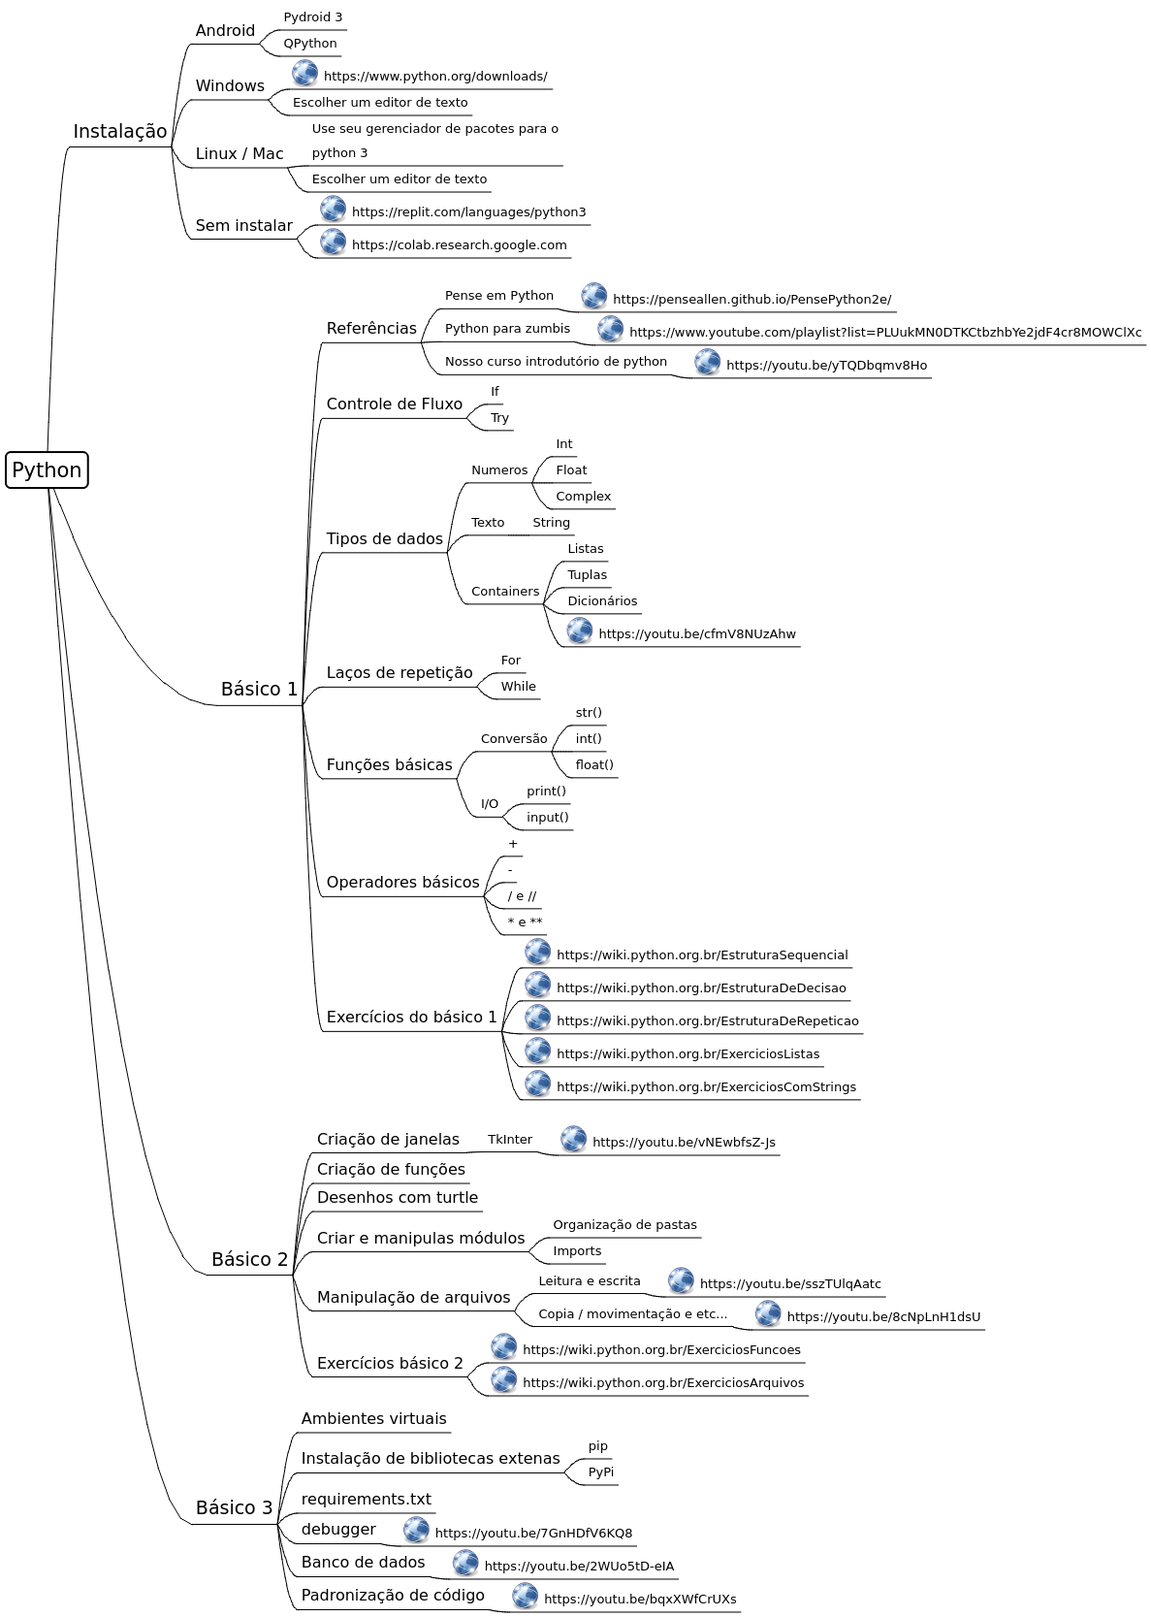
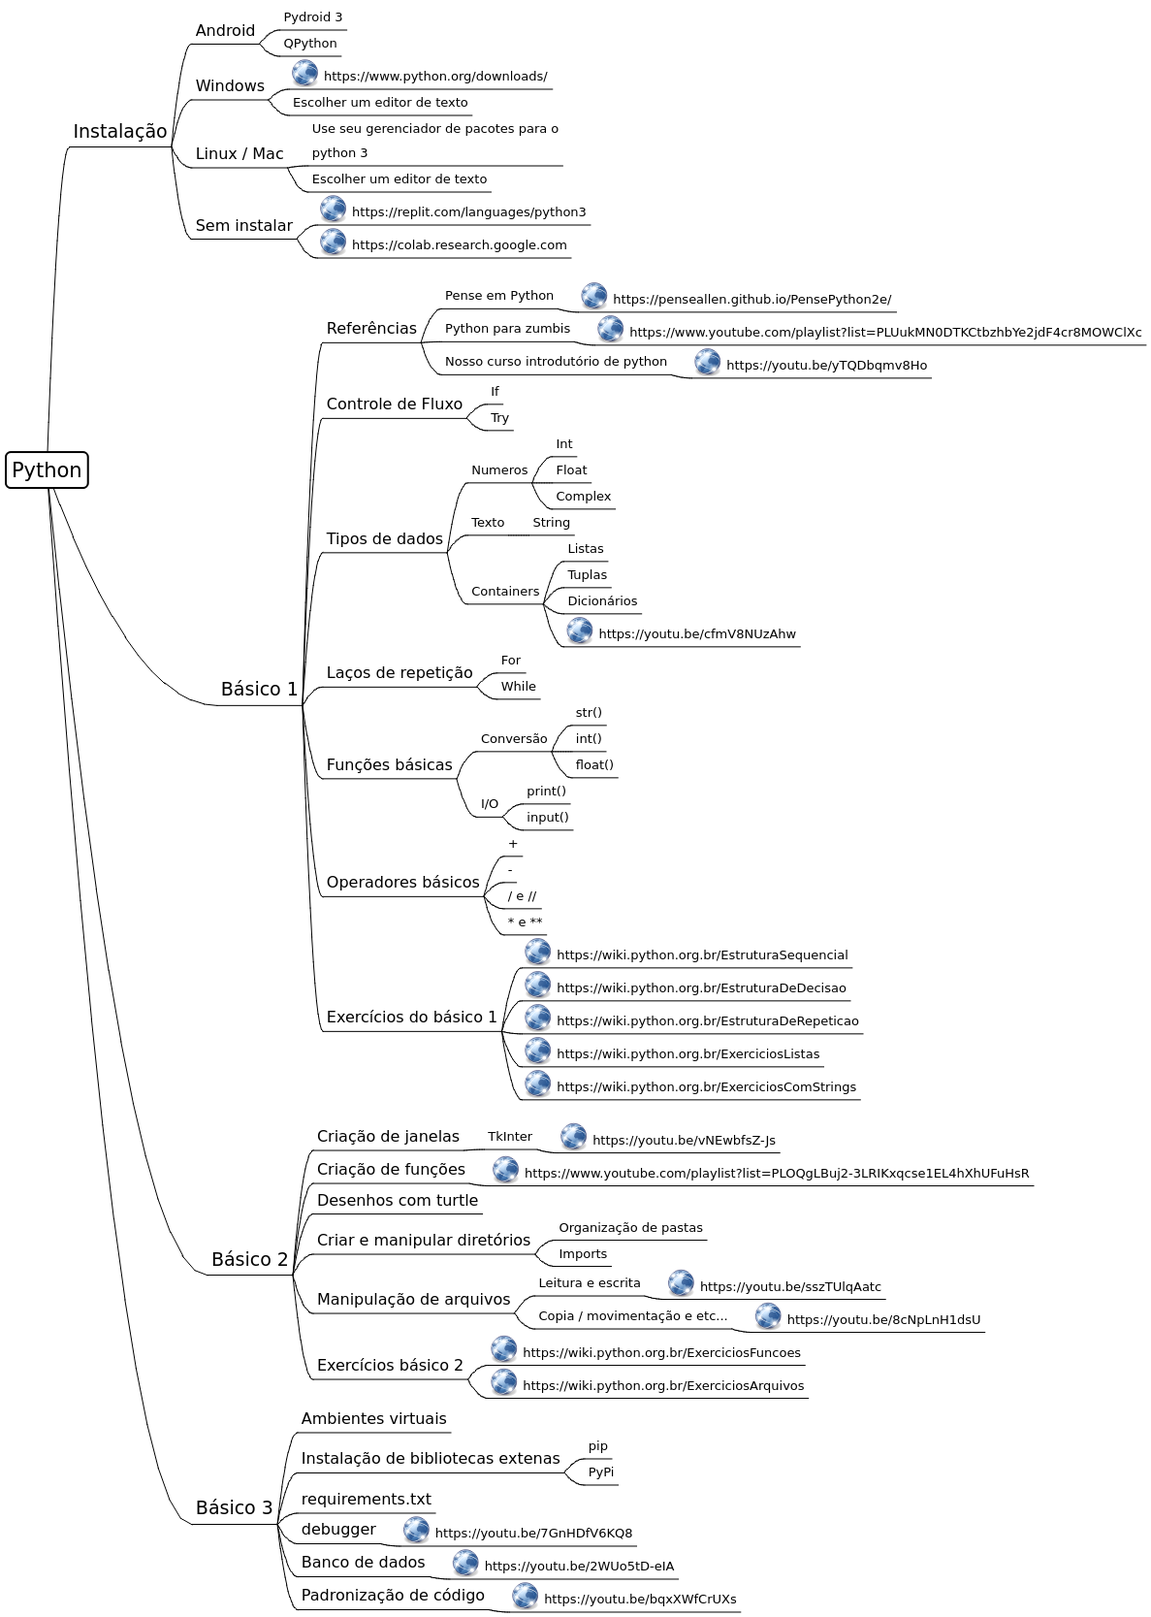
Correção de typos

diff --git a/live_como_comecar_com_python.html b/live_como_comecar_com_python.html
@@ -5,7 +5,7 @@
 <meta name="description" content=""> 
 <link rel='stylesheet' id='css.stylesheet' href='vym.css' />
 
-<head><title>Python roadmap</title></head>
+<head><title>Python Roadmap</title></head>
 <body>
 <center><img src="live_como_comecar_com_python.png"alt="Image of map: live_como_comecar_com_python.vym" usemap='#imagemap'></center>
 <table class="vym-toc">
@@ -64,8 +64,9 @@ Contents:
 </div><div class="vym-toc-branch-3"><a href="#mc:0,bo:1,bo:0,bo:0"> 2.1.1.  TkInter</a></br>
 </div><div class="vym-toc-branch-4"><a href="#mc:0,bo:1,bo:0,bo:0,bo:0"> 2.1.1.1.  https://youtu.be/vNEwbfsZ-Js</a></br>
 </div><div class="vym-toc-branch-2"><a href="#mc:0,bo:1,bo:1"> 2.2.  Criação de funções</a></br>
+</div><div class="vym-toc-branch-3"><a href="#mc:0,bo:1,bo:1,bo:0"> 2.2.1.  https://www.youtube.com/playlist?list=PLOQgLBuj2-3LRIKxqcse1EL4hXhUFuHsR</a></br>
 </div><div class="vym-toc-branch-2"><a href="#mc:0,bo:1,bo:2"> 2.3.  Desenhos com turtle</a></br>
-</div><div class="vym-toc-branch-2"><a href="#mc:0,bo:1,bo:3"> 2.4.  Criar e manipulas módulos</a></br>
+</div><div class="vym-toc-branch-2"><a href="#mc:0,bo:1,bo:3"> 2.4.  Criar e manipular diretórios</a></br>
 </div><div class="vym-toc-branch-3"><a href="#mc:0,bo:1,bo:3,bo:0"> 2.4.1.  Organização de pastas</a></br>
 </div><div class="vym-toc-branch-3"><a href="#mc:0,bo:1,bo:3,bo:1"> 2.4.2.  Imports</a></br>
 </div><div class="vym-toc-branch-2"><a href="#mc:0,bo:1,bo:4"> 2.5.  Manipulação de arquivos</a></br>
@@ -193,9 +194,12 @@ Contents:
           <li><span class='vym-branch-4' style='color:#000000' id='mc:0,bo:1,bo:0,bo:0,bo:0'><a href="https://youtu.be/vNEwbfsZ-Js">2.1.1.1.  https://youtu.be/vNEwbfsZ-Js<img src="flags/flag-url.png" alt="Flag: url"></a></span>  </li>
         </ul>  </li>
       </ul>  </li>
-      <li><span class='vym-branch-2' style='color:#000000' id='mc:0,bo:1,bo:1'>2.2.  Criação de funções</span>  </li>
+      <li><span class='vym-branch-2' style='color:#000000' id='mc:0,bo:1,bo:1'>2.2.  Criação de funções</span>
+      <ul class="vym-list-ul-3">
+        <li><span class='vym-branch-3' style='color:#000000' id='mc:0,bo:1,bo:1,bo:0'><a href="https://www.youtube.com/playlist?list=PLOQgLBuj2-3LRIKxqcse1EL4hXhUFuHsR">2.2.1.  https://www.youtube.com/playlist?list=PLOQgLBuj2-3LRIKxqcse1EL4hXhUFuHsR<img src="flags/flag-url.png" alt="Flag: url"></a></span>  </li>
+      </ul>  </li>
       <li><span class='vym-branch-2' style='color:#000000' id='mc:0,bo:1,bo:2'>2.3.  Desenhos com turtle</span>  </li>
-      <li><span class='vym-branch-2' style='color:#000000' id='mc:0,bo:1,bo:3'>2.4.  Criar e manipulas módulos</span>
+      <li><span class='vym-branch-2' style='color:#000000' id='mc:0,bo:1,bo:3'>2.4.  Criar e manipular diretórios</span>
       <ul class="vym-list-ul-3">
         <li><span class='vym-branch-3' style='color:#000000' id='mc:0,bo:1,bo:3,bo:0'>2.4.1.  Organização de pastas</span>  </li>
         <li><span class='vym-branch-3' style='color:#000000' id='mc:0,bo:1,bo:3,bo:1'>2.4.2.  Imports</span>  </li>
@@ -270,7 +274,7 @@ Contents:
   <area shape='rect' coords='332.932,325.345,434.213,352.345' href='#mc:0,bo:0,bo:0' alt='Referências'>
   <area shape='rect' coords='455.213,292.345,575.463,317.345' href='#mc:0,bo:0,bo:0,bo:0' alt='Pense em Python'>
   <area shape='rect' coords='596.463,288.845,628.463,320.845' href='https://penseallen.github.io/PensePython2e/' alt='External link: https://penseallen.github.io/PensePython2e/'>
-  <area shape='rect' coords='628.463,295.845,924.479,320.845' href='#mc:0,bo:0,bo:0,bo:0,bo:0' alt='https://penseallen.github.io/PensePython2e/'>
+  <area shape='rect' coords='628.463,295.845,924.478,320.845' href='#mc:0,bo:0,bo:0,bo:0,bo:0' alt='https://penseallen.github.io/PensePython2e/'>
   <area shape='rect' coords='455.213,326.345,592.322,351.345' href='#mc:0,bo:0,bo:0,bo:1' alt='Python para zumbis'>
   <area shape='rect' coords='613.322,322.845,645.322,354.845' href='https://www.youtube.com/playlist?list=PLUukMN0DTKCtbzhbYe2jdF4cr8MOWClXc' alt='External link: https://www.youtube.com/playlist?list=PLUukMN0DTKCtbzhbYe2jdF4cr8MOWClXc'>
   <area shape='rect' coords='645.322,329.845,1181.92,354.845' href='#mc:0,bo:0,bo:0,bo:1,bo:0' alt='https://www.youtube.com/playlist?list=PLUukMN0DTKCtbzhbYe2jdF4cr8MOWClXc'>
@@ -279,7 +283,7 @@ Contents:
   <area shape='rect' coords='745.385,363.845,960.557,388.845' href='#mc:0,bo:0,bo:0,bo:2,bo:0' alt='https://youtu.be/yTQDbqmv8Ho'>
   <area shape='rect' coords='332.932,403.345,481.291,430.345' href='#mc:0,bo:0,bo:1' alt='Controle de Fluxo'>
   <area shape='rect' coords='502.291,390.845,518.682,415.845' href='#mc:0,bo:0,bo:1,bo:0' alt='If'>
-  <area shape='rect' coords='502.291,417.845,529.354,442.845' href='#mc:0,bo:0,bo:1,bo:1' alt='Try'>
+  <area shape='rect' coords='502.291,417.845,529.353,442.845' href='#mc:0,bo:0,bo:1,bo:1' alt='Try'>
   <area shape='rect' coords='332.932,541.845,461.291,568.845' href='#mc:0,bo:0,bo:2' alt='Tipos de dados'>
   <area shape='rect' coords='482.291,471.845,548.666,496.845' href='#mc:0,bo:0,bo:2,bo:0' alt='Numeros'>
   <area shape='rect' coords='569.666,444.845,594.822,469.845' href='#mc:0,bo:0,bo:2,bo:0,bo:0' alt='Int'>
@@ -287,76 +291,78 @@ Contents:
   <area shape='rect' coords='569.666,498.845,634.635,523.845' href='#mc:0,bo:0,bo:2,bo:0,bo:2' alt='Complex'>
   <area shape='rect' coords='482.291,525.845,524.51,550.845' href='#mc:0,bo:0,bo:2,bo:1' alt='Texto'>
   <area shape='rect' coords='545.51,525.845,592.291,550.845' href='#mc:0,bo:0,bo:2,bo:1,bo:0' alt='String'>
-  <area shape='rect' coords='482.291,596.845,560.526,621.845' href='#mc:0,bo:0,bo:2,bo:2' alt='Containers'>
-  <area shape='rect' coords='581.526,552.845,626.947,577.845' href='#mc:0,bo:0,bo:2,bo:2,bo:0' alt='Listas'>
-  <area shape='rect' coords='581.526,579.845,630.307,604.845' href='#mc:0,bo:0,bo:2,bo:2,bo:1' alt='Tuplas'>
-  <area shape='rect' coords='581.526,606.845,661.697,631.845' href='#mc:0,bo:0,bo:2,bo:2,bo:2' alt='Dicionários'>
-  <area shape='rect' coords='581.526,633.845,613.526,665.845' href='https://youtu.be/cfmV8NUzAhw' alt='External link: https://youtu.be/cfmV8NUzAhw'>
-  <area shape='rect' coords='613.526,640.845,825.322,665.845' href='#mc:0,bo:0,bo:2,bo:2,bo:3' alt='https://youtu.be/cfmV8NUzAhw'>
-  <area shape='rect' coords='332.932,680.345,491.854,707.345' href='#mc:0,bo:0,bo:3' alt='Laços de repetição'>
-  <area shape='rect' coords='512.854,667.845,542.151,692.845' href='#mc:0,bo:0,bo:3,bo:0' alt='For'>
-  <area shape='rect' coords='512.854,694.845,557.135,719.845' href='#mc:0,bo:0,bo:3,bo:1' alt='While'>
+  <area shape='rect' coords='482.291,596.845,560.525,621.845' href='#mc:0,bo:0,bo:2,bo:2' alt='Containers'>
+  <area shape='rect' coords='581.525,552.845,626.947,577.845' href='#mc:0,bo:0,bo:2,bo:2,bo:0' alt='Listas'>
+  <area shape='rect' coords='581.525,579.845,630.307,604.845' href='#mc:0,bo:0,bo:2,bo:2,bo:1' alt='Tuplas'>
+  <area shape='rect' coords='581.525,606.845,661.697,631.845' href='#mc:0,bo:0,bo:2,bo:2,bo:2' alt='Dicionários'>
+  <area shape='rect' coords='581.525,633.845,613.525,665.845' href='https://youtu.be/cfmV8NUzAhw' alt='External link: https://youtu.be/cfmV8NUzAhw'>
+  <area shape='rect' coords='613.525,640.845,825.322,665.845' href='#mc:0,bo:0,bo:2,bo:2,bo:3' alt='https://youtu.be/cfmV8NUzAhw'>
+  <area shape='rect' coords='332.932,680.345,491.853,707.345' href='#mc:0,bo:0,bo:3' alt='Laços de repetição'>
+  <area shape='rect' coords='512.853,667.845,542.15,692.845' href='#mc:0,bo:0,bo:3,bo:0' alt='For'>
+  <area shape='rect' coords='512.853,694.845,557.135,719.845' href='#mc:0,bo:0,bo:3,bo:1' alt='While'>
   <area shape='rect' coords='332.932,774.845,471.01,801.845' href='#mc:0,bo:0,bo:4' alt='Funções básicas'>
   <area shape='rect' coords='492.01,748.845,568.947,773.845' href='#mc:0,bo:0,bo:4,bo:0' alt='Conversão'>
-  <area shape='rect' coords='589.947,721.845,625.276,746.845' href='#mc:0,bo:0,bo:4,bo:0,bo:0' alt='str()'>
+  <area shape='rect' coords='589.947,721.845,625.275,746.845' href='#mc:0,bo:0,bo:4,bo:0,bo:0' alt='str()'>
   <area shape='rect' coords='589.947,748.845,625.01,773.845' href='#mc:0,bo:0,bo:4,bo:0,bo:1' alt='int()'>
   <area shape='rect' coords='589.947,775.845,637.26,800.845' href='#mc:0,bo:0,bo:4,bo:0,bo:2' alt='float()'>
   <area shape='rect' coords='492.01,816.345,518.432,841.345' href='#mc:0,bo:0,bo:4,bo:1' alt='I/O'>
   <area shape='rect' coords='539.432,802.845,588.088,827.845' href='#mc:0,bo:0,bo:4,bo:1,bo:0' alt='print()'>
-  <area shape='rect' coords='539.432,829.845,590.979,854.845' href='#mc:0,bo:0,bo:4,bo:1,bo:1' alt='input()'>
+  <area shape='rect' coords='539.432,829.845,590.978,854.845' href='#mc:0,bo:0,bo:4,bo:1,bo:1' alt='input()'>
   <area shape='rect' coords='332.932,896.345,498.947,923.345' href='#mc:0,bo:0,bo:5' alt='Operadores básicos'>
   <area shape='rect' coords='519.947,856.845,538.838,881.845' href='#mc:0,bo:0,bo:5,bo:0' alt='+'>
   <area shape='rect' coords='519.947,883.845,532.635,908.845' href='#mc:0,bo:0,bo:5,bo:1' alt='-'>
   <area shape='rect' coords='519.947,910.845,558.307,935.845' href='#mc:0,bo:0,bo:5,bo:2' alt='/ e //'>
   <area shape='rect' coords='519.947,937.845,563.682,962.845' href='#mc:0,bo:0,bo:5,bo:3' alt='* e **'>
-  <area shape='rect' coords='332.932,1035.35,517.322,1062.35' href='#mc:0,bo:0,bo:6' alt='Exercícios do básico 1'>
+  <area shape='rect' coords='332.932,1035.34,517.322,1062.34' href='#mc:0,bo:0,bo:6' alt='Exercícios do básico 1'>
   <area shape='rect' coords='538.322,964.845,570.322,996.845' href='https://wiki.python.org.br/EstruturaSequencial' alt='External link: https://wiki.python.org.br/EstruturaSequencial'>
   <area shape='rect' coords='570.322,971.845,878.869,996.845' href='#mc:0,bo:0,bo:6,bo:0' alt='https://wiki.python.org.br/EstruturaSequencial'>
-  <area shape='rect' coords='538.322,998.845,570.322,1030.85' href='https://wiki.python.org.br/EstruturaDeDecisao' alt='External link: https://wiki.python.org.br/EstruturaDeDecisao'>
-  <area shape='rect' coords='570.322,1005.85,877.01,1030.85' href='#mc:0,bo:0,bo:6,bo:1' alt='https://wiki.python.org.br/EstruturaDeDecisao'>
-  <area shape='rect' coords='538.322,1032.85,570.322,1064.85' href='https://wiki.python.org.br/EstruturaDeRepeticao' alt='External link: https://wiki.python.org.br/EstruturaDeRepeticao'>
-  <area shape='rect' coords='570.322,1039.85,890.026,1064.85' href='#mc:0,bo:0,bo:6,bo:2' alt='https://wiki.python.org.br/EstruturaDeRepeticao'>
-  <area shape='rect' coords='538.322,1066.85,570.322,1098.85' href='https://wiki.python.org.br/ExerciciosListas' alt='External link: https://wiki.python.org.br/ExerciciosListas'>
-  <area shape='rect' coords='570.322,1073.85,849.526,1098.85' href='#mc:0,bo:0,bo:6,bo:3' alt='https://wiki.python.org.br/ExerciciosListas'>
-  <area shape='rect' coords='538.322,1100.85,570.322,1132.85' href='https://wiki.python.org.br/ExerciciosComStrings' alt='External link: https://wiki.python.org.br/ExerciciosComStrings'>
-  <area shape='rect' coords='570.322,1107.85,887.322,1132.85' href='#mc:0,bo:0,bo:6,bo:4' alt='https://wiki.python.org.br/ExerciciosComStrings'>
-  <area shape='rect' coords='214.043,1282.55,302.027,1313.55' href='#mc:0,bo:1' alt='Básico 2'>
-  <area shape='rect' coords='323.027,1160.55,478.324,1187.55' href='#mc:0,bo:1,bo:0' alt='Criação de janelas'>
-  <area shape='rect' coords='499.324,1161.55,554.261,1186.55' href='#mc:0,bo:1,bo:0,bo:0' alt='TkInter'>
-  <area shape='rect' coords='575.261,1158.05,607.261,1190.05' href='https://youtu.be/vNEwbfsZ-Js' alt='External link: https://youtu.be/vNEwbfsZ-Js'>
-  <area shape='rect' coords='607.261,1165.05,804.23,1190.05' href='#mc:0,bo:1,bo:0,bo:0,bo:0' alt='https://youtu.be/vNEwbfsZ-Js'>
-  <area shape='rect' coords='323.027,1192.05,484.199,1219.05' href='#mc:0,bo:1,bo:1' alt='Criação de funções'>
-  <area shape='rect' coords='323.027,1221.05,497.589,1248.05' href='#mc:0,bo:1,bo:2' alt='Desenhos com turtle'>
-  <area shape='rect' coords='323.027,1262.55,545.683,1289.55' href='#mc:0,bo:1,bo:3' alt='Criar e manipulas módulos'>
-  <area shape='rect' coords='566.683,1250.05,723.136,1275.05' href='#mc:0,bo:1,bo:3,bo:0' alt='Organização de pastas'>
-  <area shape='rect' coords='566.683,1277.05,624.574,1302.05' href='#mc:0,bo:1,bo:3,bo:1' alt='Imports'>
-  <area shape='rect' coords='323.027,1323.55,530.668,1350.55' href='#mc:0,bo:1,bo:4' alt='Manipulação de arquivos'>
-  <area shape='rect' coords='551.668,1307.55,665.011,1332.55' href='#mc:0,bo:1,bo:4,bo:0' alt='Leitura e escrita'>
-  <area shape='rect' coords='686.011,1304.05,718.011,1336.05' href='https://youtu.be/sszTUlqAatc' alt='External link: https://youtu.be/sszTUlqAatc'>
-  <area shape='rect' coords='718.011,1311.05,913.23,1336.05' href='#mc:0,bo:1,bo:4,bo:0,bo:0' alt='https://youtu.be/sszTUlqAatc'>
-  <area shape='rect' coords='551.668,1341.55,754.824,1366.55' href='#mc:0,bo:1,bo:4,bo:1' alt='Copia / movimentação e etc...'>
-  <area shape='rect' coords='775.824,1338.05,807.824,1370.05' href='https://youtu.be/8cNpLnH1dsU' alt='External link: https://youtu.be/8cNpLnH1dsU'>
-  <area shape='rect' coords='807.824,1345.05,1015.71,1370.05' href='#mc:0,bo:1,bo:4,bo:1,bo:0' alt='https://youtu.be/8cNpLnH1dsU'>
-  <area shape='rect' coords='323.027,1391.55,482.402,1418.55' href='#mc:0,bo:1,bo:5' alt='Exercícios básico 2'>
-  <area shape='rect' coords='503.402,1372.05,535.402,1404.05' href='https://wiki.python.org.br/ExerciciosFuncoes' alt='External link: https://wiki.python.org.br/ExerciciosFuncoes'>
-  <area shape='rect' coords='535.402,1379.05,830.261,1404.05' href='#mc:0,bo:1,bo:5,bo:0' alt='https://wiki.python.org.br/ExerciciosFuncoes'>
-  <area shape='rect' coords='503.402,1406.05,535.402,1438.05' href='https://wiki.python.org.br/ExerciciosArquivos' alt='External link: https://wiki.python.org.br/ExerciciosArquivos'>
-  <area shape='rect' coords='535.402,1413.05,833.683,1438.05' href='#mc:0,bo:1,bo:5,bo:1' alt='https://wiki.python.org.br/ExerciciosArquivos'>
-  <area shape='rect' coords='197.983,1539.5,285.967,1570.5' href='#mc:0,bo:2' alt='Básico 3'>
-  <area shape='rect' coords='306.967,1449,465.03,1476' href='#mc:0,bo:2,bo:0' alt='Ambientes virtuais'>
-  <area shape='rect' coords='306.967,1490.5,581.905,1517.5' href='#mc:0,bo:2,bo:1' alt='Instalação de bibliotecas extenas'>
-  <area shape='rect' coords='602.905,1478,631.014,1503' href='#mc:0,bo:2,bo:1,bo:0' alt='pip'>
-  <area shape='rect' coords='602.905,1505,637.576,1530' href='#mc:0,bo:2,bo:1,bo:1' alt='PyPi'>
-  <area shape='rect' coords='306.967,1532,449.092,1559' href='#mc:0,bo:2,bo:2' alt='requirements.txt'>
-  <area shape='rect' coords='306.967,1563.5,391.998,1590.5' href='#mc:0,bo:2,bo:3' alt='debugger'>
-  <area shape='rect' coords='412.998,1561,444.998,1593' href='https://youtu.be/7GnHDfV6KQ8' alt='External link: https://youtu.be/7GnHDfV6KQ8'>
-  <area shape='rect' coords='444.998,1568,656.545,1593' href='#mc:0,bo:2,bo:3,bo:0' alt='https://youtu.be/7GnHDfV6KQ8'>
-  <area shape='rect' coords='306.967,1597.5,442.826,1624.5' href='#mc:0,bo:2,bo:4' alt='Banco de dados'>
-  <area shape='rect' coords='463.826,1595,495.826,1627' href='https://youtu.be/2WUo5tD-eIA' alt='External link: https://youtu.be/2WUo5tD-eIA'>
-  <area shape='rect' coords='495.826,1602,699.639,1627' href='#mc:0,bo:2,bo:4,bo:0' alt='https://youtu.be/2WUo5tD-eIA'>
-  <area shape='rect' coords='306.967,1631.5,504.264,1658.5' href='#mc:0,bo:2,bo:5' alt='Padronização de código'>
-  <area shape='rect' coords='525.264,1629,557.264,1661' href='https://youtu.be/bqxXWfCrUXs' alt='External link: https://youtu.be/bqxXWfCrUXs'>
-  <area shape='rect' coords='557.264,1636,763.811,1661' href='#mc:0,bo:2,bo:5,bo:0' alt='https://youtu.be/bqxXWfCrUXs'>
+  <area shape='rect' coords='538.322,998.845,570.322,1030.84' href='https://wiki.python.org.br/EstruturaDeDecisao' alt='External link: https://wiki.python.org.br/EstruturaDeDecisao'>
+  <area shape='rect' coords='570.322,1005.84,877.01,1030.84' href='#mc:0,bo:0,bo:6,bo:1' alt='https://wiki.python.org.br/EstruturaDeDecisao'>
+  <area shape='rect' coords='538.322,1032.84,570.322,1064.84' href='https://wiki.python.org.br/EstruturaDeRepeticao' alt='External link: https://wiki.python.org.br/EstruturaDeRepeticao'>
+  <area shape='rect' coords='570.322,1039.84,890.025,1064.84' href='#mc:0,bo:0,bo:6,bo:2' alt='https://wiki.python.org.br/EstruturaDeRepeticao'>
+  <area shape='rect' coords='538.322,1066.84,570.322,1098.84' href='https://wiki.python.org.br/ExerciciosListas' alt='External link: https://wiki.python.org.br/ExerciciosListas'>
+  <area shape='rect' coords='570.322,1073.84,849.525,1098.84' href='#mc:0,bo:0,bo:6,bo:3' alt='https://wiki.python.org.br/ExerciciosListas'>
+  <area shape='rect' coords='538.322,1100.84,570.322,1132.84' href='https://wiki.python.org.br/ExerciciosComStrings' alt='External link: https://wiki.python.org.br/ExerciciosComStrings'>
+  <area shape='rect' coords='570.322,1107.84,887.322,1132.84' href='#mc:0,bo:0,bo:6,bo:4' alt='https://wiki.python.org.br/ExerciciosComStrings'>
+  <area shape='rect' coords='214.042,1282.55,302.027,1313.55' href='#mc:0,bo:1' alt='Básico 2'>
+  <area shape='rect' coords='323.027,1158.05,478.323,1185.05' href='#mc:0,bo:1,bo:0' alt='Criação de janelas'>
+  <area shape='rect' coords='499.323,1159.05,554.261,1184.05' href='#mc:0,bo:1,bo:0,bo:0' alt='TkInter'>
+  <area shape='rect' coords='575.261,1155.55,607.261,1187.55' href='https://youtu.be/vNEwbfsZ-Js' alt='External link: https://youtu.be/vNEwbfsZ-Js'>
+  <area shape='rect' coords='607.261,1162.55,804.23,1187.55' href='#mc:0,bo:1,bo:0,bo:0,bo:0' alt='https://youtu.be/vNEwbfsZ-Js'>
+  <area shape='rect' coords='323.027,1192.05,484.198,1219.05' href='#mc:0,bo:1,bo:1' alt='Criação de funções'>
+  <area shape='rect' coords='505.198,1189.55,537.198,1221.55' href='https://www.youtube.com/playlist?list=PLOQgLBuj2-3LRIKxqcse1EL4hXhUFuHsR' alt='External link: https://www.youtube.com/playlist?list=PLOQgLBuj2-3LRIKxqcse1EL4hXhUFuHsR'>
+  <area shape='rect' coords='537.198,1196.55,1066.01,1221.55' href='#mc:0,bo:1,bo:1,bo:0' alt='https://www.youtube.com/playlist?list=PLOQgLBuj2-3LRIKxqcse1EL4hXhUFuHsR'>
+  <area shape='rect' coords='323.027,1223.55,497.589,1250.55' href='#mc:0,bo:1,bo:2' alt='Desenhos com turtle'>
+  <area shape='rect' coords='323.027,1265.05,551.573,1292.05' href='#mc:0,bo:1,bo:3' alt='Criar e manipular diretórios'>
+  <area shape='rect' coords='572.573,1252.55,729.027,1277.55' href='#mc:0,bo:1,bo:3,bo:0' alt='Organização de pastas'>
+  <area shape='rect' coords='572.573,1279.55,630.464,1304.55' href='#mc:0,bo:1,bo:3,bo:1' alt='Imports'>
+  <area shape='rect' coords='323.027,1326.05,530.667,1353.05' href='#mc:0,bo:1,bo:4' alt='Manipulação de arquivos'>
+  <area shape='rect' coords='551.667,1310.05,665.011,1335.05' href='#mc:0,bo:1,bo:4,bo:0' alt='Leitura e escrita'>
+  <area shape='rect' coords='686.011,1306.55,718.011,1338.55' href='https://youtu.be/sszTUlqAatc' alt='External link: https://youtu.be/sszTUlqAatc'>
+  <area shape='rect' coords='718.011,1313.55,913.23,1338.55' href='#mc:0,bo:1,bo:4,bo:0,bo:0' alt='https://youtu.be/sszTUlqAatc'>
+  <area shape='rect' coords='551.667,1344.05,754.823,1369.05' href='#mc:0,bo:1,bo:4,bo:1' alt='Copia / movimentação e etc...'>
+  <area shape='rect' coords='775.823,1340.55,807.823,1372.55' href='https://youtu.be/8cNpLnH1dsU' alt='External link: https://youtu.be/8cNpLnH1dsU'>
+  <area shape='rect' coords='807.823,1347.55,1015.71,1372.55' href='#mc:0,bo:1,bo:4,bo:1,bo:0' alt='https://youtu.be/8cNpLnH1dsU'>
+  <area shape='rect' coords='323.027,1394.05,482.402,1421.05' href='#mc:0,bo:1,bo:5' alt='Exercícios básico 2'>
+  <area shape='rect' coords='503.402,1374.55,535.402,1406.55' href='https://wiki.python.org.br/ExerciciosFuncoes' alt='External link: https://wiki.python.org.br/ExerciciosFuncoes'>
+  <area shape='rect' coords='535.402,1381.55,830.261,1406.55' href='#mc:0,bo:1,bo:5,bo:0' alt='https://wiki.python.org.br/ExerciciosFuncoes'>
+  <area shape='rect' coords='503.402,1408.55,535.402,1440.55' href='https://wiki.python.org.br/ExerciciosArquivos' alt='External link: https://wiki.python.org.br/ExerciciosArquivos'>
+  <area shape='rect' coords='535.402,1415.55,833.683,1440.55' href='#mc:0,bo:1,bo:5,bo:1' alt='https://wiki.python.org.br/ExerciciosArquivos'>
+  <area shape='rect' coords='197.983,1539.49,285.968,1570.49' href='#mc:0,bo:2' alt='Básico 3'>
+  <area shape='rect' coords='306.968,1448.99,465.03,1475.99' href='#mc:0,bo:2,bo:0' alt='Ambientes virtuais'>
+  <area shape='rect' coords='306.968,1490.49,581.905,1517.49' href='#mc:0,bo:2,bo:1' alt='Instalação de bibliotecas extenas'>
+  <area shape='rect' coords='602.905,1477.99,631.014,1502.99' href='#mc:0,bo:2,bo:1,bo:0' alt='pip'>
+  <area shape='rect' coords='602.905,1504.99,637.577,1529.99' href='#mc:0,bo:2,bo:1,bo:1' alt='PyPi'>
+  <area shape='rect' coords='306.968,1531.99,449.093,1558.99' href='#mc:0,bo:2,bo:2' alt='requirements.txt'>
+  <area shape='rect' coords='306.968,1563.49,391.999,1590.49' href='#mc:0,bo:2,bo:3' alt='debugger'>
+  <area shape='rect' coords='412.999,1560.99,444.999,1592.99' href='https://youtu.be/7GnHDfV6KQ8' alt='External link: https://youtu.be/7GnHDfV6KQ8'>
+  <area shape='rect' coords='444.999,1567.99,656.546,1592.99' href='#mc:0,bo:2,bo:3,bo:0' alt='https://youtu.be/7GnHDfV6KQ8'>
+  <area shape='rect' coords='306.968,1597.49,442.827,1624.49' href='#mc:0,bo:2,bo:4' alt='Banco de dados'>
+  <area shape='rect' coords='463.827,1594.99,495.827,1626.99' href='https://youtu.be/2WUo5tD-eIA' alt='External link: https://youtu.be/2WUo5tD-eIA'>
+  <area shape='rect' coords='495.827,1601.99,699.639,1626.99' href='#mc:0,bo:2,bo:4,bo:0' alt='https://youtu.be/2WUo5tD-eIA'>
+  <area shape='rect' coords='306.968,1631.49,504.264,1658.49' href='#mc:0,bo:2,bo:5' alt='Padronização de código'>
+  <area shape='rect' coords='525.264,1628.99,557.264,1660.99' href='https://youtu.be/bqxXWfCrUXs' alt='External link: https://youtu.be/bqxXWfCrUXs'>
+  <area shape='rect' coords='557.264,1635.99,763.811,1660.99' href='#mc:0,bo:2,bo:5,bo:0' alt='https://youtu.be/bqxXWfCrUXs'>
   <area shape='rect' coords='71.5832,119.5,176.771,150.5' href='#mc:0,bo:3' alt='Instalação'>
   <area shape='rect' coords='197.771,17.5,267.614,44.5' href='#mc:0,bo:3,bo:0' alt='Android'>
   <area shape='rect' coords='288.614,5,357.646,30' href='#mc:0,bo:3,bo:0,bo:0' alt='Pydroid 3'>
@@ -378,7 +384,7 @@ Contents:
 <table class="vym-footer">   
         <tr> 
         <td class="vym-footerL">/home/dunossauro/roadmap/live_como_comecar_com_python.html</td> 
-            <td class="vym-footerC">2022-01-13</td> 
+            <td class="vym-footerC">2022-01-17</td> 
             <td class="vym-footerR"> <a href='http://www.insilmaril.de/vym'>vym 2.8.8</a></td> 
             </tr> 
              </table>
